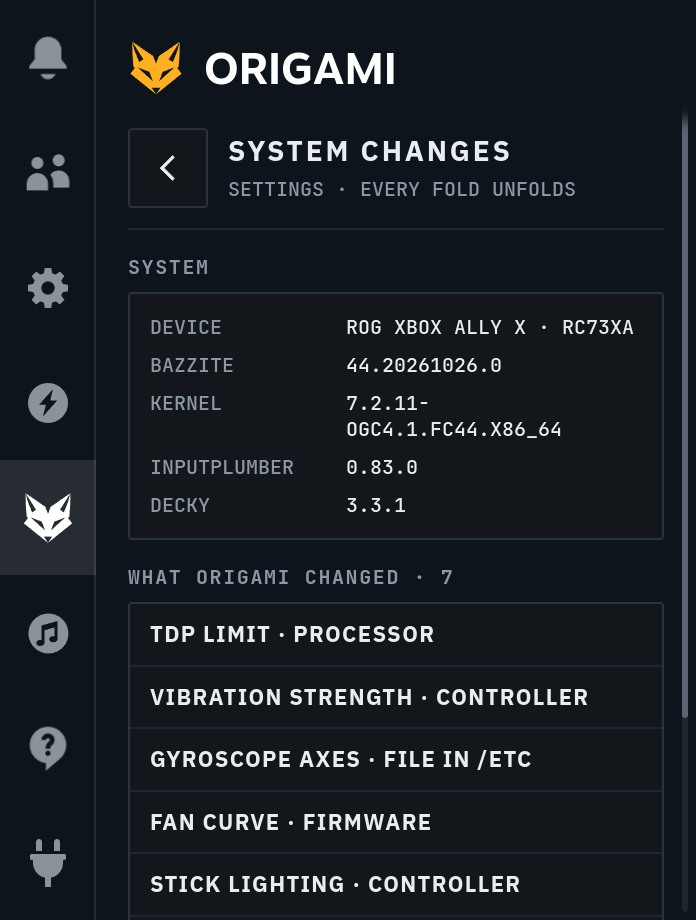
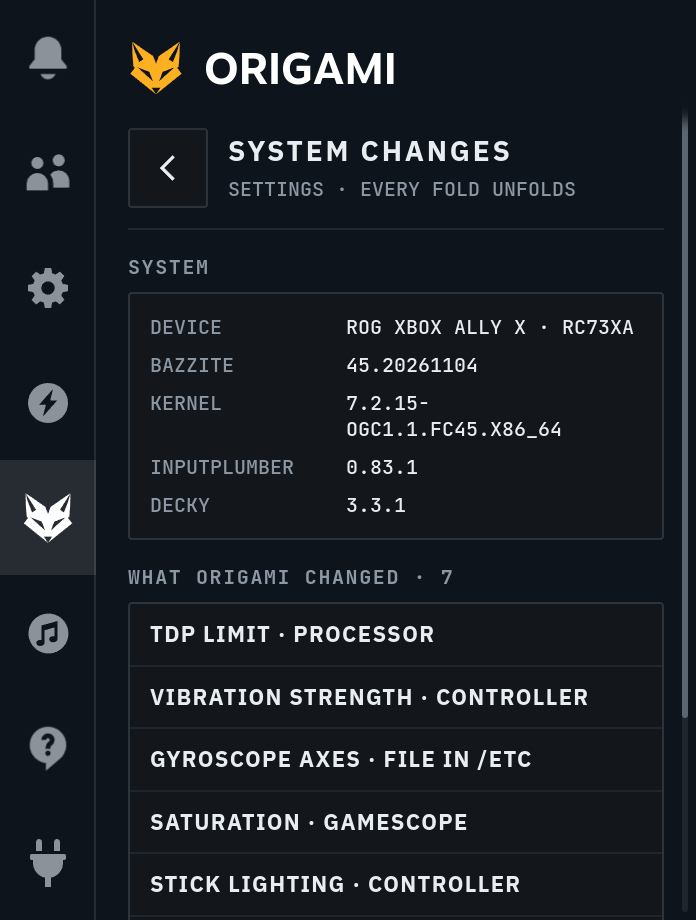
Use Bazzite 45 in the examples, tests and the system changes screenshots

diff --git a/src/screens/system.test.ts b/src/screens/system.test.ts
@@ -11,17 +11,17 @@ const info: Info = {
   version: "0.1.0",
   device: { board: "RC73XA", product: "ROG Xbox Ally X RC73XA_RC73XA", model: "ROG Xbox Ally X" },
   versions: {
-    os: { name: "Bazzite", versionId: "44", imageVersion: "44.20261023" },
-    kernel: "7.2.9-ogc3.1.fc44.x86_64",
-    inputplumber: "0.83.0",
-    decky: "v3.3.0",
+    os: { name: "Bazzite", versionId: "45", imageVersion: "45.20261104" },
+    kernel: "7.2.15-ogc1.1.fc45.x86_64",
+    inputplumber: "0.83.1",
+    decky: "v3.3.1",
   },
 };
 
 describe("system information", () => {
   it("names the device and the system", () => {
     expect(deviceName(info)).toBe("ROG Xbox Ally X");
-    expect(systemName(info)).toBe("Bazzite 44");
+    expect(systemName(info)).toBe("Bazzite 45");
   });
 
   it("falls back to the DMI product name on other hardware", () => {
@@ -41,10 +41,10 @@ describe("system information", () => {
 
     expect(systemFacts(partial, ru)).toEqual([
       ["Устройство", "ROG Xbox Ally X · RC73XA"],
-      ["Bazzite", "44.20261023"],
-      ["Ядро", "7.2.9-ogc3.1.fc44.x86_64"],
+      ["Bazzite", "45.20261104"],
+      ["Ядро", "7.2.15-ogc1.1.fc45.x86_64"],
       ["InputPlumber", "—"],
-      ["Decky", "3.3.0"],
+      ["Decky", "3.3.1"],
     ]);
   });
 });

diff --git a/src/keyboardPaste.ts b/src/keyboardPaste.ts
@@ -4,7 +4,7 @@
 import { findModuleExport, replacePatch } from "@decky/ui";
 
 // The paste key of Steam's on-screen keyboard presses Ctrl+V through SteamClient.Input. gamescope
-// passes such keys on without their Ctrl (3.17.0 on Bazzite 44), so the field gets a plain "v".
+// passes such keys on without their Ctrl (3.17.0 on Bazzite 44 and 45), so the field gets a plain "v".
 // ORIGAMI presses the two keys on InputPlumber's keyboard instead, which gamescope takes as a real
 // keyboard, and lets Steam paste its own way when that cannot be done.
 

diff --git a/preview/mocks/decky-api.ts b/preview/mocks/decky-api.ts
@@ -9,10 +9,10 @@ const info: Info = {
   version: "1.0.0",
   device: { board: "RC73XA", product: "ROG Xbox Ally X RC73XA_RC73XA", model: "ROG Xbox Ally X" },
   versions: {
-    os: { name: "Bazzite", versionId: "44", imageVersion: "44.20261023" },
-    kernel: "7.2.9-ogc3.1.fc44.x86_64",
-    inputplumber: "0.83.0",
-    decky: "v3.3.0",
+    os: { name: "Bazzite", versionId: "45", imageVersion: "45.20261104" },
+    kernel: "7.2.15-ogc1.1.fc45.x86_64",
+    inputplumber: "0.83.1",
+    decky: "v3.3.1",
   },
 };
 

diff --git a/src/screens/system.ts b/src/screens/system.ts
@@ -15,7 +15,7 @@ export function deviceName(info: Info): string | null {
   return info.device.model ?? info.device.product;
 }
 
-/** "Bazzite 44". */
+/** "Bazzite 45". */
 export function systemName(info: Info): string | null {
   const name = present(info.versions.os.name, info.versions.os.versionId).join(" ");
   return name === "" ? null : name;

diff --git a/tests/test_versions.py b/tests/test_versions.py
@@ -18,7 +18,7 @@ def test_os_release_quoting() -> None:
             "# comment",
             'NAME="Bazzite"',
             "ID=bazzite",
-            "OSTREE_VERSION='44.20261023'",
+            "OSTREE_VERSION='45.20261104'",
             r'PRETTY_NAME="Say \"hi\" \$HOME"',
             "",
             "not a field",
@@ -29,7 +29,7 @@ def test_os_release_quoting() -> None:
     assert parse_os_release(text) == {
         "NAME": "Bazzite",
         "ID": "bazzite",
-        "OSTREE_VERSION": "44.20261023",
+        "OSTREE_VERSION": "45.20261104",
         "PRETTY_NAME": 'Say "hi" $HOME',
     }
 
@@ -47,17 +47,17 @@ def test_versions(ally_x: FakeRoot, monkeypatch: pytest.MonkeyPatch) -> None:
 
     async def fake_run(*args: str) -> str:
         calls.append(args)
-        return '{"type":"s","data":"0.83.0"}\n'
+        return '{"type":"s","data":"0.83.1"}\n'
 
     monkeypatch.setattr(versions, "run", fake_run)
 
-    result = asyncio.run(read_versions(ally_x.path, decky="v3.3.0"))
+    result = asyncio.run(read_versions(ally_x.path, decky="v3.3.1"))
 
     assert result == Versions(
-        os=OsRelease(name="Bazzite", version_id="44", image_version="44.20261023"),
-        kernel="7.2.9-ogc3.1.fc44.x86_64",
-        inputplumber="0.83.0",
-        decky="v3.3.0",
+        os=OsRelease(name="Bazzite", version_id="45", image_version="45.20261104"),
+        kernel="7.2.15-ogc1.1.fc45.x86_64",
+        inputplumber="0.83.1",
+        decky="v3.3.1",
     )
     # Interface name checked on the console with busctl introspect (InputPlumber 0.83.0).
     assert calls[0][0] == "busctl"

diff --git a/tests/test_app.py b/tests/test_app.py
@@ -49,7 +49,7 @@ from fakes import FakeHidBpf, FakeRoot
 @pytest.fixture(autouse=True)
 def no_busctl(monkeypatch: pytest.MonkeyPatch) -> None:
     async def fake_run(*_args: str) -> str:
-        return '{"type":"s","data":"0.83.0"}'
+        return '{"type":"s","data":"0.83.1"}'
 
     monkeypatch.setattr(versions, "run", fake_run)
 
@@ -79,7 +79,7 @@ def make_app(
         decky_home=tmp_path / "decky",
         plugin_dir=tmp_path / "plugin",
         version="0.1.0",
-        decky_version="v3.3.0",
+        decky_version="v3.3.1",
     )
     return Origami(environment, emit=emit, attach_bpf=bpf or FakeHidBpf())
 
@@ -122,7 +122,7 @@ def test_info_after_start(ally_x: FakeRoot, tmp_path: Path) -> None:
 
         assert info.version == "0.1.0"
         assert info.device.model == "ROG Xbox Ally X"
-        assert info.versions.inputplumber == "0.83.0"
+        assert info.versions.inputplumber == "0.83.1"
         assert await app.changes() == []
 
     asyncio.run(scenario())

diff --git a/tests/conftest.py b/tests/conftest.py
@@ -37,10 +37,10 @@ def ally_x(fake_root: FakeRoot) -> FakeRoot:
     fake_root.hwmon(5, "amdgpu", power1_average=16_900_000, temp1_input=61000)
     fake_root.hwmon(6, "asus", fan1_input=4600, fan2_input=4700)
     fake_root.hwmon(7, "k10temp", temp1_input=61625)
-    fake_root.write("proc/sys/kernel/osrelease", "7.2.9-ogc3.1.fc44.x86_64")
+    fake_root.write("proc/sys/kernel/osrelease", "7.2.15-ogc1.1.fc45.x86_64")
     fake_root.write(
         "usr/lib/os-release",
-        'NAME="Bazzite"\nVERSION_ID="44"\nOSTREE_VERSION=\'44.20261023\'',
+        'NAME="Bazzite"\nVERSION_ID="45"\nOSTREE_VERSION=\'45.20261104\'',
     )
     return fake_root
 

diff --git a/bpf/hid_bpf_kernel.h b/bpf/hid_bpf_kernel.h
@@ -2,8 +2,8 @@
 /* SPDX-License-Identifier: GPL-2.0-or-later */
 /*
  * The few kernel types ORIGAMI's HID-BPF programs need, instead of a whole vmlinux.h.
- * Same layout as kernel 7.2.11-ogc4.1 (checked against its /sys/kernel/btf/vmlinux). libbpf matches
- * struct_ops members to the kernel's by name, so hid_bpf_ops keeps the kernel's names.
+ * Same layout as kernels 7.2.11-ogc4.1 and 7.2.15-ogc1.1 (checked against their /sys/kernel/btf/vmlinux).
+ * libbpf matches struct_ops members to the kernel's by name, so hid_bpf_ops keeps the kernel's names.
  */
 #ifndef ORIGAMI_HID_BPF_KERNEL_H
 #define ORIGAMI_HID_BPF_KERNEL_H

diff --git a/py_modules/origami/versions.py b/py_modules/origami/versions.py
@@ -26,7 +26,7 @@ class OsRelease:
     name: str | None
     version_id: str | None
     image_version: str | None
-    """Full build of an image-based system, e.g. 44.20261023 on Bazzite."""
+    """Full build of an image-based system, e.g. 45.20261104 on Bazzite."""
 
 
 @dataclass(frozen=True, slots=True)
